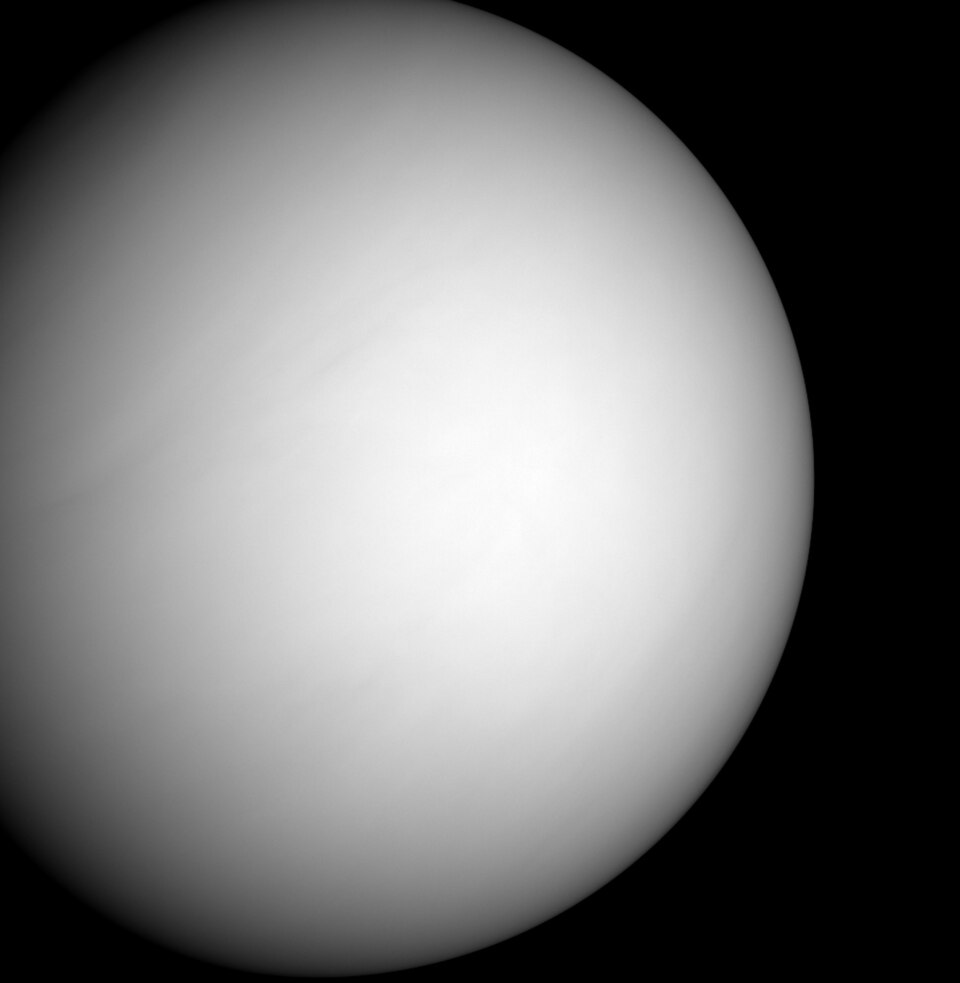
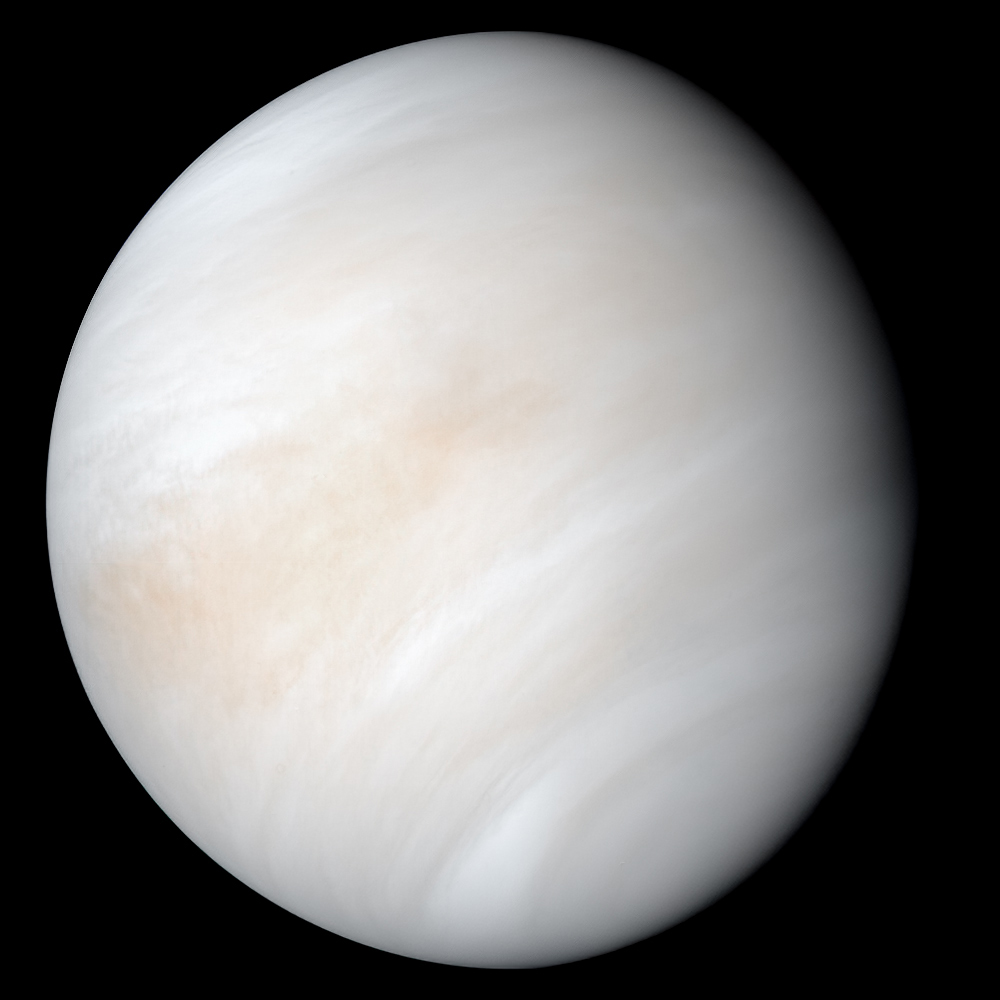
Updated image and caption for Venus

diff --git a/Misc/School/Main/AS91903/planets/Venus.html b/Misc/School/Main/AS91903/planets/Venus.html
@@ -23,17 +23,12 @@
       <figure id="planet-photo">
         <img
           src="../img/venus.jpg"
-          alt="True colour photo of Venus taken by the MESSENGER probe in 2007"
+          alt="False color image of Venus as taken by Mariner 10 in 1974."
         />
         <figcaption style="display: block">
-          True colour photo of Venus taken by the
-          <a
-            href="https://en.wikipedia.org/wiki/MESSENGER"
-            target="_blank"
-            rel="noopener noreferrer"
-            >MESSENGER</a
-          >
-          probe in 2007
+          False color image of Venus as taken by
+          <a href="https://en.wikipedia.org/wiki/Mariner_10">Mariner 10</a> in
+          1974.
         </figcaption>
       </figure>
       <h1>Overview</h1>
